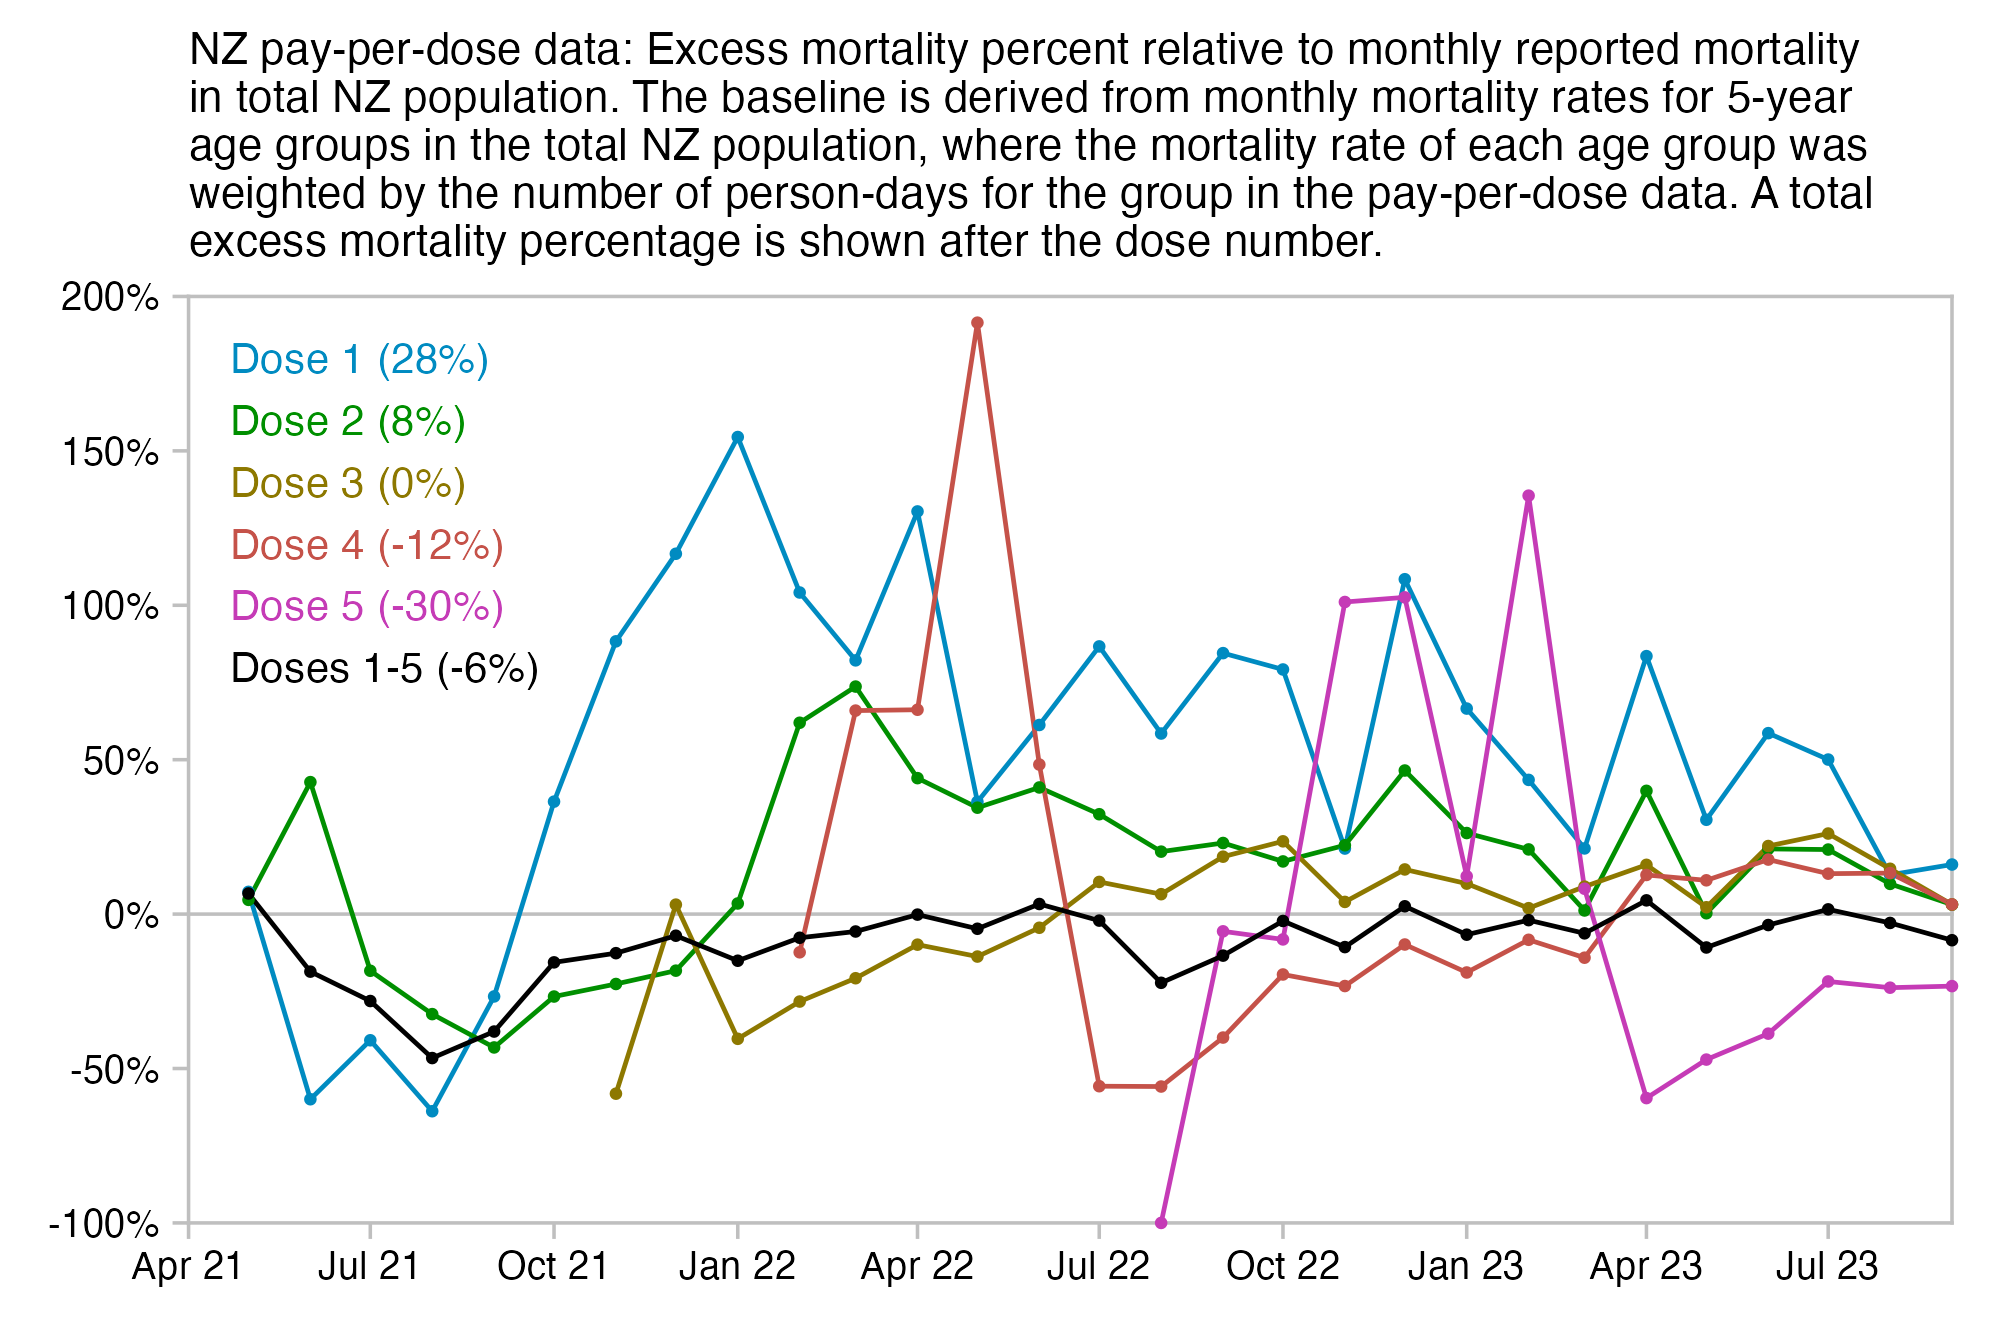
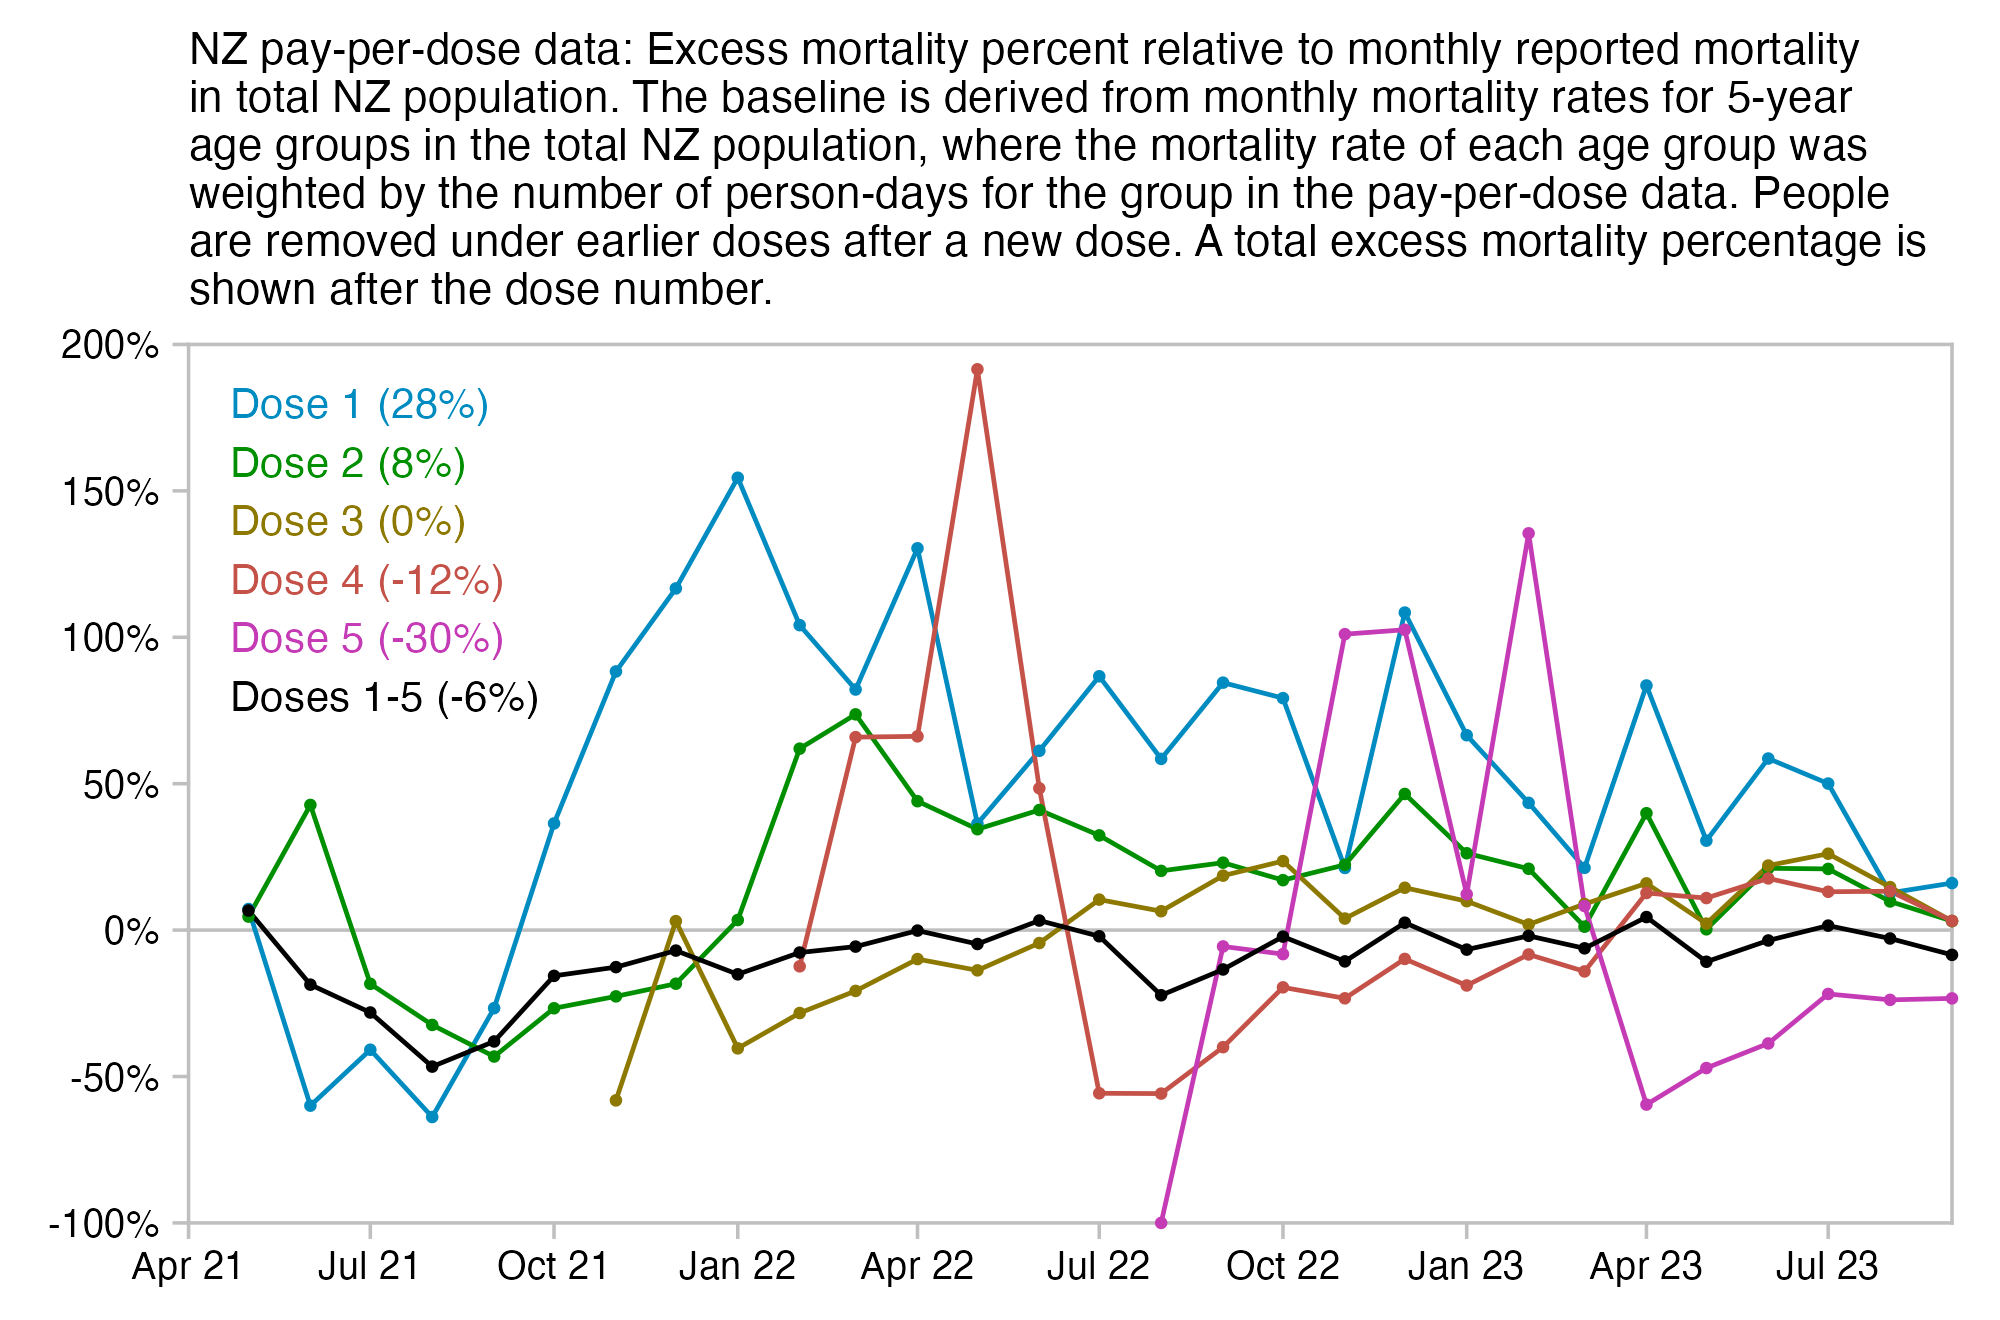
a

diff --git a/moar.html b/moar.html
@@ -5524,6 +5524,19 @@ cmr[56+1]/cmr[46+1]</pre>
 <div class="width8">
 <img src="i/moar-googledocs-2.jpg">
 </div>
+<p>Another problem with the spreadsheets by Scoops is that he's assuming that the average age of the resident population of New Zealand is 40 years, but based on my calculation below it's actually closer to 39 years if you use ages in floored years. Here I used the 2022 resident population estimate by single-year age from infoshare.stats.govt.nz, which gave me an average age of about 38.9 years (but the average age would be about half a year higher if you used age in days expressed as a floating point number):</p>
+<pre>&gt; nzpop=unlist(tail(read.csv(&quot;https://sars2.net/f/nz_infoshare_population.csv&quot;),1)[,-1])
+&gt; weighted.mean(0:95,nzpop)
+[1] 38.90849</pre>
+<p>In the code above I treated people of age 95 and above as 95-year-olds, but there's so few people of ages 95 and above that it would make little difference even if I treated all of them as 100-year-olds:</p>
+<pre>&gt; weighted.mean(c(0:94,100),nzpop)
+[1] 38.91662</pre>
+<p>When I calculated total mortality rates for each age in 2013-2022, I got about 16% higher mortality rate for age 40 than age 39, so the baseline used by Scoops might also be about 16% too high (even though it also depends on whether he's using ages in floored years or not):</p>
+<pre>&gt; nzdead=tail(read.csv(&quot;http://sars2.net/f/nz_infoshare_deaths.csv&quot;),10)[,2:97]
+&gt; nzpop=tail(read.csv(&quot;https://sars2.net/f/nz_infoshare_population.csv&quot;),10)[,-1]
+&gt; round(((colSums(nzdead)/colSums(nzpop))*1e5)[36:45],1)
+  X35   X36   X37   X38   X39   X40   X41   X42   X43   X44
+ 74.2  78.2  85.9  84.4  87.5 101.5 105.2 116.7 134.3 141.0</pre>
 <h3>
 <a href=#Plot_for_vaccine_doses_by_date_by_Barry_Young id=Plot_for_vaccine_doses_by_date_by_Barry_Young>Plot for vaccine doses by date by Barry Young</a>
 </h3>
@@ -6013,6 +6026,10 @@ Dose 5+  57026988  3631 2324  752  71</pre>
 <p>The highest excess mortality I got was only 192% for dose 4 in May 2022, and my total excess mortality for doses 1-5 aggregated together was -6%:</p>
 <div class="width7">
 <img src="i/moar-scoops-bydose-2.png">
+</div>
+<p>Or if you keep people included under earlier doses after a new dose then the excess mortality of dose 1 and dose 2 is a lot lower. The black line for all doses is particularly low in August 2022, but it might be because the data for deaths I used was by registration date, so some COVID deaths which occurred in July may have only been registered in August, because NZ had a lot more COVID deaths in July than August:</p>
+<div class="width7">
+<img src="i/moar-scoops-bydose-3.png">
 </div>
 <pre>library(tidyverse);library(tempdisagg)
 
